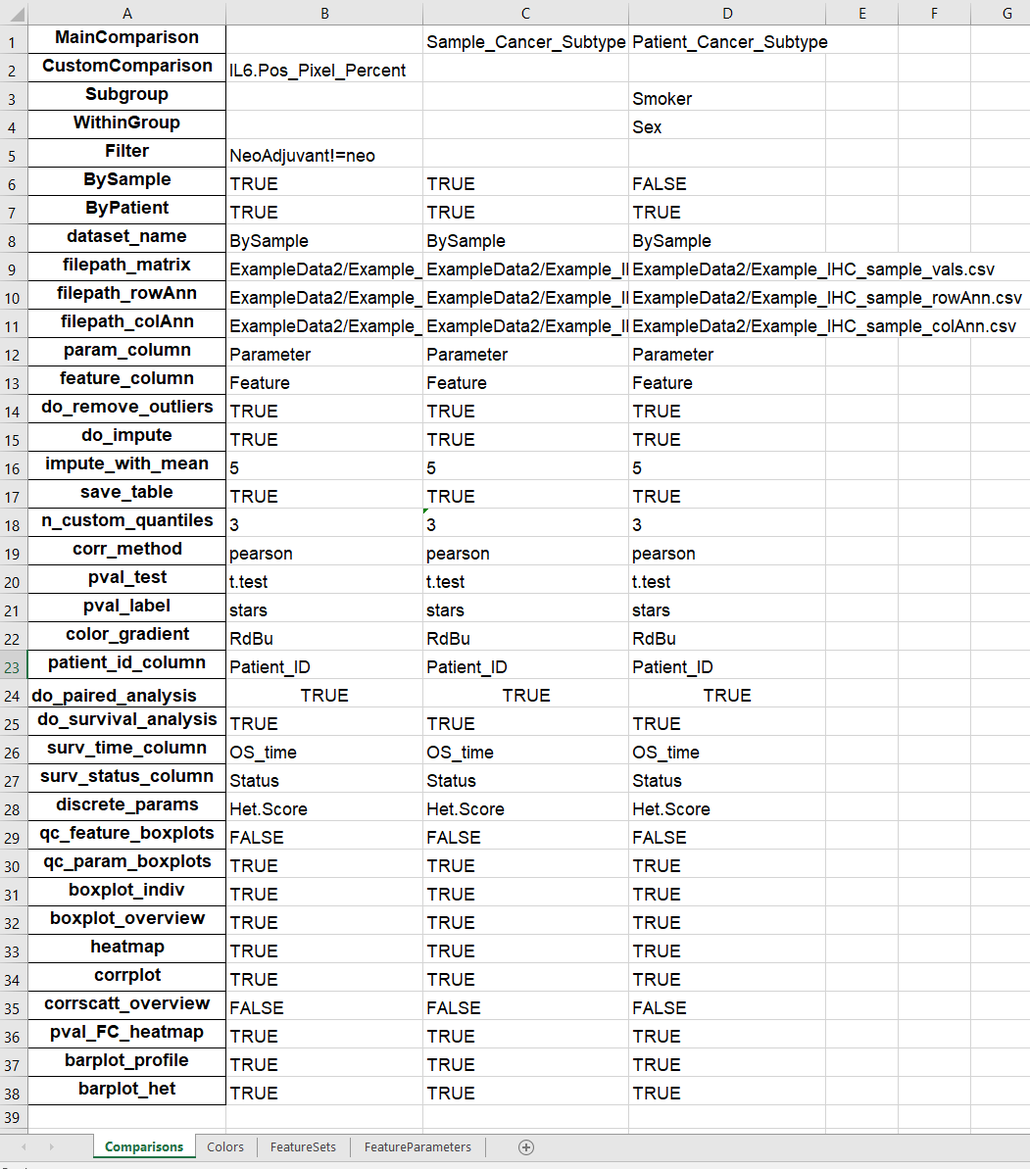
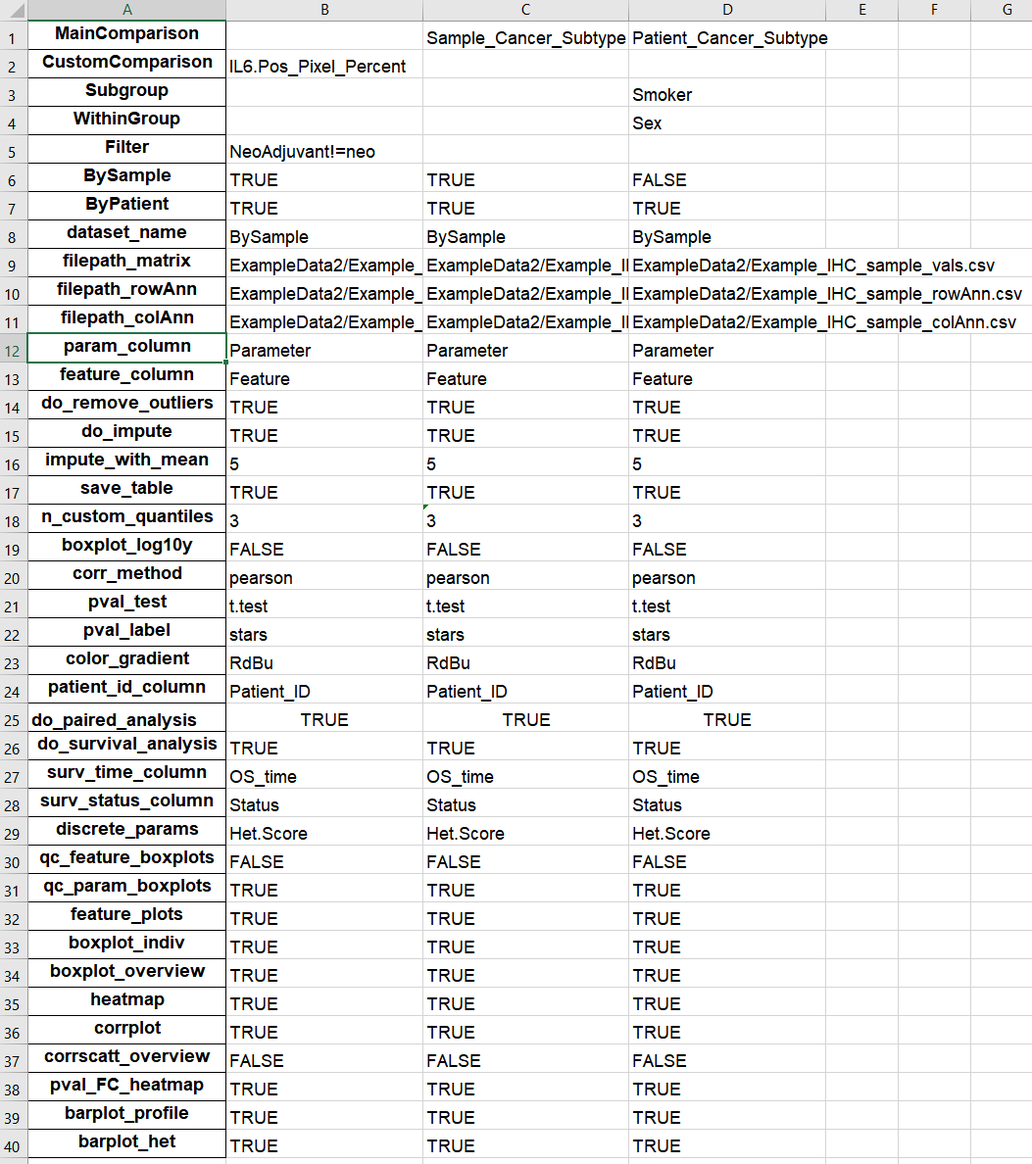
Update GUI

Changed region(s): [[0.0, 0.0, 1.0, 0.9966]]

diff --git a/docs/output-plot-types.html b/docs/output-plot-types.html
@@ -208,7 +208,7 @@ code span.wa { color: #60a0b0; font-weight: bold; font-style: italic; } /* Warni
 <h1><span class="header-section-number">7</span> Output Plot Types<a href="output-plot-types.html#output-plot-types" class="anchor-section" aria-label="Anchor link to header"></a></h1>
 <div id="navigating-output-folder" class="section level2 hasAnchor" number="7.1">
 <h2><span class="header-section-number">7.1</span> Navigating Output Folder<a href="output-plot-types.html#navigating-output-folder" class="anchor-section" aria-label="Anchor link to header"></a></h2>
-<div class="figure" style="text-align: center"><span id="fig:unnamed-chunk-32"></span>
+<div class="figure" style="text-align: center"><span id="fig:unnamed-chunk-33"></span>
 <img src="images/output_overview.png" alt="Hourglass Output Folder Hierarchy." width="100%" />
 <p class="caption">
 Figure 7.1: Hourglass Output Folder Hierarchy.
@@ -223,7 +223,7 @@ Figure 7.1: Hourglass Output Folder Hierarchy.
 </ol>
 <ul>
 <li>Visualizes sample compositon (or expression levels within samples) in patients, indicative of intrapatient heterogeneity.
-<div class="figure" style="text-align: center"><span id="fig:unnamed-chunk-33"></span>
+<div class="figure" style="text-align: center"><span id="fig:unnamed-chunk-34"></span>
 <img src="images/plots/hetplot%20stacked.PNG" alt="Heterogeneity barplot stacked (first image) and filled to 100% (second) created by Hourglass." width="40%" /><img src="images/plots/hetplot%20filled.PNG" alt="Heterogeneity barplot stacked (first image) and filled to 100% (second) created by Hourglass." width="40%" />
 <p class="caption">
 Figure 7.2: Heterogeneity barplot stacked (first image) and filled to 100% (second) created by Hourglass.
@@ -235,7 +235,7 @@ Figure 7.2: Heterogeneity barplot stacked (first image) and filled to 100% (seco
 </ol>
 <ul>
 <li>Determines survival outcome via plotting of Kaplan Meier curve, logrank test, and tables containing patient counts. Only performed on patients (not samples).
-<div class="figure" style="text-align: center"><span id="fig:unnamed-chunk-34"></span>
+<div class="figure" style="text-align: center"><span id="fig:unnamed-chunk-35"></span>
 <img src="images/plots/survival.PNG" alt="Survival curve created by Hourglass." width="50%" />
 <p class="caption">
 Figure 7.3: Survival curve created by Hourglass.
@@ -247,7 +247,7 @@ Figure 7.3: Survival curve created by Hourglass.
 </ol>
 <ul>
 <li>Enables screening of any intra-patient differences that may be reflective of heterogeneity. Points are averaged values across strata per patient. Lines connect different averages within patients.
-<div class="figure" style="text-align: center"><span id="fig:unnamed-chunk-35"></span>
+<div class="figure" style="text-align: center"><span id="fig:unnamed-chunk-36"></span>
 <img src="images/plots/paired.PNG" alt="Patient paired plot created by Hourglass." width="40%" />
 <p class="caption">
 Figure 7.4: Patient paired plot created by Hourglass.
@@ -259,7 +259,7 @@ Figure 7.4: Patient paired plot created by Hourglass.
 </ol>
 <ul>
 <li>Visualizes discrete values of a parameter in each stain, that is, numeric in the input data but should be considered discrete. E.g. A parameter called “Heterogeneity Score” contains values 1-10 but should be “1”, “2”, .. “10”.
-<div class="figure" style="text-align: center"><span id="fig:unnamed-chunk-36"></span>
+<div class="figure" style="text-align: center"><span id="fig:unnamed-chunk-37"></span>
 <img src="images/plots/discrete%20barplot.PNG" alt="Plot showing discrete parameters created by Hourglass." width="50%" />
 <p class="caption">
 Figure 7.5: Plot showing discrete parameters created by Hourglass.
@@ -271,7 +271,7 @@ Figure 7.5: Plot showing discrete parameters created by Hourglass.
 </ol>
 <ul>
 <li>Screen primary data for interesting relationships in one plot and significance associations.
-<div class="figure" style="text-align: center"><span id="fig:unnamed-chunk-37"></span>
+<div class="figure" style="text-align: center"><span id="fig:unnamed-chunk-38"></span>
 <img src="images/plots/boxplot%20overview.PNG" alt="Overview boxplot with statistics created by Hourglass." width="60%" />
 <p class="caption">
 Figure 7.6: Overview boxplot with statistics created by Hourglass.
@@ -283,7 +283,7 @@ Figure 7.6: Overview boxplot with statistics created by Hourglass.
 </ol>
 <ul>
 <li>Visualizes data points for each features/parameter combination and relevant statistics from comparing strata.
-<div class="figure" style="text-align: center"><span id="fig:unnamed-chunk-38"></span>
+<div class="figure" style="text-align: center"><span id="fig:unnamed-chunk-39"></span>
 <img src="images/plots/boxplot%20indiv.PNG" alt="Individual boxplot (left) and example with real data (right) created by Hourglass." width="45%" /><img src="images/plots/example/boxplot%20indiv%20ex.PNG" alt="Individual boxplot (left) and example with real data (right) created by Hourglass." width="45%" />
 <p class="caption">
 Figure 7.7: Individual boxplot (left) and example with real data (right) created by Hourglass.
@@ -295,7 +295,7 @@ Figure 7.7: Individual boxplot (left) and example with real data (right) created
 </ol>
 <ul>
 <li>Compare set of markers across different strata for each patient/sample.
-<div class="figure" style="text-align: center"><span id="fig:unnamed-chunk-39"></span>
+<div class="figure" style="text-align: center"><span id="fig:unnamed-chunk-40"></span>
 <img src="images/plots/profile%20barplot%20stacked.PNG" alt="Profile barplot stacked (first) and filled to 100% (second), created by Hourglass." width="45%" /><img src="images/plots/profile%20barplot%20filled.PNG" alt="Profile barplot stacked (first) and filled to 100% (second), created by Hourglass." width="45%" />
 <p class="caption">
 Figure 7.8: Profile barplot stacked (first) and filled to 100% (second), created by Hourglass.
@@ -307,7 +307,7 @@ Figure 7.8: Profile barplot stacked (first) and filled to 100% (second), created
 </ol>
 <ul>
 <li>Provides overview of patterns in stain data. When there are no NA/missing values (in imputed version for example), values will be clustered using unsupervised hierarchal clustering.
-<div class="figure" style="text-align: center"><span id="fig:unnamed-chunk-40"></span>
+<div class="figure" style="text-align: center"><span id="fig:unnamed-chunk-41"></span>
 <img src="images/plots/heatmap%20expression.PNG" alt="Heatmap showing expression of features, created by Hourglass." width="40%" />
 <p class="caption">
 Figure 7.9: Heatmap showing expression of features, created by Hourglass.
@@ -321,7 +321,7 @@ Figure 7.9: Heatmap showing expression of features, created by Hourglass.
 <li>Screen for patterns of fold-changes between strata in comparisons and overall significance seen in individuals boxplots.<br />
 </li>
 <li>Fold-changes of strata are shown as color gradient and significance between two groups are presented as stars/numbers.
-<div class="figure" style="text-align: center"><span id="fig:unnamed-chunk-41"></span>
+<div class="figure" style="text-align: center"><span id="fig:unnamed-chunk-42"></span>
 <img src="images/plots/heatmap%20pval%20FC.PNG" alt="Plot showing fold-change values (color gradients) and p-values (stars/number), created by Hourglass." width="55%" />
 <p class="caption">
 Figure 7.10: Plot showing fold-change values (color gradients) and p-values (stars/number), created by Hourglass.
@@ -335,7 +335,7 @@ Figure 7.10: Plot showing fold-change values (color gradients) and p-values (sta
 <li>Provides correlations between cell communities and their interactions, e.g. of an insight that can be drawn: correlations between fibroblast markers in one cancer subtype and anti-correlated with immune cells in another. Can only be performed on imputed (no missing values) dataset.</li>
 <li>spearman or pearson</li>
 <li>Only created when there are no NA/missing values - for example in 1) imputed version, and 2) “complete” rows in feature sets.
-<div class="figure" style="text-align: center"><span id="fig:unnamed-chunk-42"></span>
+<div class="figure" style="text-align: center"><span id="fig:unnamed-chunk-43"></span>
 <img src="images/plots/correlation.PNG" alt="Correlation plot created by Hourglass." width="50%" />
 <p class="caption">
 Figure 7.11: Correlation plot created by Hourglass.
@@ -348,7 +348,7 @@ Figure 7.11: Correlation plot created by Hourglass.
 <ul>
 <li>Provides details of correlations, such as regression, scatter plots, correlation coefficients and significant and histograms of values used. Can only be performed on imputed (no missing values) dataset.</li>
 <li>Only created when there are no NA/missing values - for example in 1) imputed version, and 2) “complete” rows in feature setsc
-<div class="figure" style="text-align: center"><span id="fig:unnamed-chunk-43"></span>
+<div class="figure" style="text-align: center"><span id="fig:unnamed-chunk-44"></span>
 <img src="images/plots/correlation%20scatter.PNG" alt="Correlation scatter plot created by Hourglass." width="40%" />
 <p class="caption">
 Figure 7.12: Correlation scatter plot created by Hourglass.
@@ -360,7 +360,7 @@ Figure 7.12: Correlation scatter plot created by Hourglass.
 </ol>
 <ul>
 <li>Provides sample/patient ID and strata used in comparison, useful for custom comparisons (where groups are assigned by Hourglass) and to see which samples/patients were included after filter inclusion/exclusion.
-<div class="figure" style="text-align: center"><span id="fig:unnamed-chunk-44"></span>
+<div class="figure" style="text-align: center"><span id="fig:unnamed-chunk-45"></span>
 <img src="images/plots/id_table.PNG" alt="ID table (csv file) created by Hourglass." width="40%" />
 <p class="caption">
 Figure 7.13: ID table (csv file) created by Hourglass.
@@ -528,7 +528,7 @@ Figure 7.13: ID table (csv file) created by Hourglass.
 <ul>
 <li><strong>QC Feature</strong>: Plot all parameters present for a feature, split by comparison. Note: If your “feature column” parameter is called “Stain”, this folder will be called “QC Stain” in the output folder.</li>
 </ul>
-<div class="figure" style="text-align: center"><span id="fig:unnamed-chunk-45"></span>
+<div class="figure" style="text-align: center"><span id="fig:unnamed-chunk-46"></span>
 <img src="images/plots/QC%20feature.PNG" alt="Example of a 'QC feature' overview boxplot (all parameters measured for CD3)." width="60%" />
 <p class="caption">
 Figure 7.14: Example of a ‘QC feature’ overview boxplot (all parameters measured for CD3).
@@ -537,7 +537,7 @@ Figure 7.14: Example of a ‘QC feature’ overview boxplot (all parameters meas
 <ul>
 <li><strong>QC Parameter</strong>: Plot all features present for a parameter, split by comparison</li>
 </ul>
-<div class="figure" style="text-align: center"><span id="fig:unnamed-chunk-46"></span>
+<div class="figure" style="text-align: center"><span id="fig:unnamed-chunk-47"></span>
 <img src="images/plots/QC%20parameter.PNG" alt="Example of a 'QC parameter' overview boxplot (all features that have a readout for Num.Pos.per.mm.2)." width="60%" />
 <p class="caption">
 Figure 7.15: Example of a ‘QC parameter’ overview boxplot (all features that have a readout for Num.Pos.per.mm.2).

diff --git a/docs/how-to-use-the-desktop-application.html b/docs/how-to-use-the-desktop-application.html
@@ -310,8 +310,8 @@ Figure 5.5: Pick comparisons.
 {insert 2 boxplot images with and without colored dots}</p>
 <p><strong>Within Group</strong></p>
 <p>This will run Hourglass within groups or cohorts of sample/patients.
-Append rowAnn column names with “;”.
-e.g. Sex;Smoker</p>
+Append rowAnn column names with “,”.
+e.g. Sex,Smoker</p>
 <p><strong>Filter</strong></p>
 <p>Specify exclusion criteria with this format: rowAnn_columnname != variable to exclude or rowAnn_columnname == variable to keep.
 e.g. Smoker==“Yes” - this keeps all smokers and excludes all other samples/patients from analysis. Ensure that “Smoker” is a column in rowAnn and “Yes” is one of its column values. Choose multiple filters by appending filters with “;”, e.g. Smoker==“Yes”;NeoAdjuvant!=neo</p>
@@ -463,7 +463,7 @@ Figure 5.8: Define feature sets.
 <p>This tab includes customization for statistics, plot types, etc.</p>
 </blockquote>
 <div class="figure" style="text-align: center"><span id="fig:unnamed-chunk-22"></span>
-<img src="images/app/GUI_5_adv-options1.PNG" alt="Define feature sets." width="66%" /><img src="images/app/GUI_5_adv-options2.PNG" alt="Define feature sets." width="66%" />
+<img src="images/app/GUI_5_adv-options1.png" alt="Define feature sets." width="66%" /><img src="images/app/GUI_5_adv-options2.png" alt="Define feature sets." width="66%" />
 <p class="caption">
 Figure 5.9: Define feature sets.
 </p>
@@ -474,9 +474,16 @@ Figure 5.9: Define feature sets.
 <li><p><strong>Test method</strong>: Which two-sample test should be used? Student’s t-test for parametric data, wilcoxon usually for non-parametric.</p></li>
 <li><p><strong>p-values label</strong>: How p (significance) values are to be represented in boxplots, correlation plots, p-value/fold-change heatmap. Stars or exact numeric values.</p></li>
 <li><p><strong>Fold-change method</strong>: Fold change computation method to use, either “divide” (for non-transformed values) or “subtract” (for log2-transformed values).</p></li>
-<li><p><strong>Color gradient</strong>: Color palette for scaled plot types: heatmaps, correlation plots. See color palettes (visual) by pressing the button “See color gradients”.</p></li>
+<li><p><strong>Color gradient</strong>: Color palette for scaled plot types: heatmaps, correlation plots. See color palettes (visual) by pressing the button “See color gradients”.</p>
+<div class="figure" style="text-align: center"><span id="fig:unnamed-chunk-23"></span>
+<img src="images/app/GUI_5_adv-options3_colors.png" alt="Color gradients supported by Hourglass - image from RColorBrewer." width="40%" />
+<p class="caption">
+Figure 5.10: Color gradients supported by Hourglass - image from RColorBrewer.
+</p>
+</div></li>
 <li><p><strong>Number of custom levels</strong>: Number of intermediate groups resulting from Hourglass separating a continuous variable into low, int, high. For example, if 2 is selected, there will only be low and high groups, whereas if 4 is selected, the groups will be low, int1, int2, high.</p></li>
 <li><p><strong>Save ID data to file</strong>: Would you like sample/patient IDs and corresponding comparison groups to be saved to a .csv table? If TRUE is selected, then yes. This may be useful to 1) identify how Hourglass stratified custom comparisons, i.e. which patient IDs were considers low, int, high in the analysis and 2) see which samples/patients were in analysis after filtering steps.</p></li>
+<li><p><strong>Log10 y axis for box/paired plots</strong>: Should the data be transformed (y axis) for box plots and patient-paired slopegraphs? Opt for this option if the data columns have large ranges.</p></li>
 </ul>
 <p>Survival analysis options:</p>
 <ul>
@@ -502,10 +509,10 @@ Figure 5.9: Define feature sets.
 <ul>
 <li>A button for each unique value in defined comparisons will automatically be displayed. For example, if “Cancer Type” was chosen as a main comparison, corresponding buttons for lung, breast, pancreatic, and other values in the “Cancer Type” column will be displayed.</li>
 </ul>
-<div class="figure" style="text-align: center"><span id="fig:unnamed-chunk-23"></span>
+<div class="figure" style="text-align: center"><span id="fig:unnamed-chunk-24"></span>
 <img src="images/app/GUI_6_customize-colors1.PNG" alt="Customize colors." width="66%" /><img src="images/app/GUI_6_customize-colors2.PNG" alt="Customize colors." width="66%" />
 <p class="caption">
-Figure 5.10: Customize colors.
+Figure 5.11: Customize colors.
 </p>
 </div>
 <ol style="list-style-type: decimal">
@@ -528,15 +535,15 @@ Note: the information will help populate the table/sheet in the output Excel fil
 <blockquote>
 <p>This tab is the final tab that defines which plot types should be created in output folder</p>
 </blockquote>
-<div class="figure" style="text-align: center"><span id="fig:unnamed-chunk-24"></span>
-<img src="images/app/GUI_7_run-hourglass.PNG" alt="Run Hourglass." width="66%" />
+<div class="figure" style="text-align: center"><span id="fig:unnamed-chunk-25"></span>
+<img src="images/app/GUI_7_run-hourglass1.PNG" alt="Run Hourglass." width="66%" /><img src="images/app/GUI_7_run-hourglass2.PNG" alt="Run Hourglass." width="66%" />
 <p class="caption">
-Figure 5.11: Run Hourglass.
+Figure 5.12: Run Hourglass.
 </p>
 </div>
 <ul>
 <li><p>Check boxes for quality control boxplots, for the feature and parameter colAnn columns (optional). See <a href="output-plot-types.html#quality-control-qc-plots">Quality Control (QC) Plots</a>. Note this uses information from Feature Sets Tab 1.</p></li>
-<li><p>Check boxes for plots that will be created for each feature set.</p></li>
+<li><p>Check boxes for plots that will be created for each feature set. Ensure “Feature Plots” is checked.</p></li>
 <li><p><strong>Either</strong> press:</p>
 <ul>
 <li>“Create output spreadsheet” button and navigate through the folder directory and save the Excel file locally. Modify if needed before pressing Run.</li>
@@ -596,10 +603,10 @@ Figure 5.11: Run Hourglass.
 </blockquote>
 <p><strong>1. Comparisons</strong></p>
 <p>This worksheet contains specifications for each run. The first column must be the exact names of the user options and the proceeding columns are comparisons, where each column is a comparison.</p>
-<div class="figure" style="text-align: center"><span id="fig:unnamed-chunk-25"></span>
+<div class="figure" style="text-align: center"><span id="fig:unnamed-chunk-26"></span>
 <img src="images/excel/output-excel_comparisons.png" alt="Example of Comparisons worksheet in output Excel file." width="80%" />
 <p class="caption">
-Figure 5.12: Example of Comparisons worksheet in output Excel file.
+Figure 5.13: Example of Comparisons worksheet in output Excel file.
 </p>
 </div>
 <p>The first rows (“MainComparison” to “ByPatient”) reflect the comparison table in <a href="how-to-use-the-desktop-application.html#define-comparisons">Define Comparisons</a>, while the rest are options selected from other tabs (e.g. <a href="how-to-use-the-desktop-application.html#advanced-options">Advanced Options</a>, <a href="how-to-use-the-desktop-application.html#run-hourglass">Run Hourglass</a>)</p>
@@ -608,26 +615,26 @@ Figure 5.12: Example of Comparisons worksheet in output Excel file.
 <p>If you’d like to <strong>exclude an option</strong>(e.g. “Sex-X” due to low patient number), set to white “#ffffffff” or do not include and it will be removed from all comparisons with “Sex”.</p>
 <p>This may be useful if you have high,int,low for a CustomComparison (see [Pick Comparisons] for definition) - if the intermediate group is to be excluded, delete the “Custom-int” row.</p>
 <p>Colors are the <strong>same for all unique strata</strong> for consistency. For example, “Patient_Cancer_Subtype-A”, “Sample_Cancer_Subtype-A”, “Sex-A”, “Smoker-A”, “Random-A” all have the strata “A” and therefore will be the same color (ie first color defined, duplicates are ignored).</p>
-<div class="figure" style="text-align: center"><span id="fig:unnamed-chunk-26"></span>
+<div class="figure" style="text-align: center"><span id="fig:unnamed-chunk-27"></span>
 <img src="images/excel/output-excel_colors.png" alt="Example of Colors worksheet in output Excel file." width="40%" />
 <p class="caption">
-Figure 5.13: Example of Colors worksheet in output Excel file.
+Figure 5.14: Example of Colors worksheet in output Excel file.
 </p>
 </div>
 <p><strong>3. Feature Sets</strong></p>
 <p>This worksheet contains the table in <a href="how-to-use-the-desktop-application.html#define-feature-sets">Define Feature Sets</a> “Tab 3: Define sets”.</p>
-<div class="figure" style="text-align: center"><span id="fig:unnamed-chunk-27"></span>
+<div class="figure" style="text-align: center"><span id="fig:unnamed-chunk-28"></span>
 <img src="images/excel/output-excel_feature-sets.png" alt="Example of Feature Sets worksheet in output Excel file." width="68%" />
 <p class="caption">
-Figure 5.14: Example of Feature Sets worksheet in output Excel file.
+Figure 5.15: Example of Feature Sets worksheet in output Excel file.
 </p>
 </div>
 <p><strong>4. Feature Parameters</strong></p>
 <p>This worksheet contains the table in <a href="how-to-use-the-desktop-application.html#define-feature-sets">Define Feature Sets</a> “Tab 2: Define parameters”.</p>
-<div class="figure" style="text-align: center"><span id="fig:unnamed-chunk-28"></span>
+<div class="figure" style="text-align: center"><span id="fig:unnamed-chunk-29"></span>
 <img src="images/excel/output-excel_feature-parameters.png" alt="Example of Feature Parameters worksheet in output Excel file." width="60%" />
 <p class="caption">
-Figure 5.15: Example of Feature Parameters worksheet in output Excel file.
+Figure 5.16: Example of Feature Parameters worksheet in output Excel file.
 </p>
 </div>
 

diff --git a/docs/index.html b/docs/index.html
@@ -227,7 +227,7 @@ Figure 1.2: The Hourglass concept: input data, computational processing, output 
 </div>
 <p><strong>Acknowledgements</strong></p>
 <p>We are ready to share Hourglass with the world. It’s about <em>time</em>.</p>
-<p>First of all, I would like to thank Dr. Barbara Grünwald, whose role cannot be overstated. She is the phenomenal force that helped conceptualize this toolbox and drove this project forward. It started off as a script, with 300 lines of code in a single for loop, and progressively grew bigger as we added more stains and figured out new ways to interrogate the data.</p>
+<p>First of all, I would like to thank Dr. Barbara Grünwald, whose role cannot be overstated. She is the phenomenal force who helped conceptualize this toolbox and drove this project forward. It started off as a script, with 300 lines of code in a single for loop, and progressively grew bigger as we added more stains and figured out new ways to interrogate the data.</p>
 <p>Next, I would like to thank Henry Waterhouse, who built the graphical user interface with me, from planning to launch. Bowen Zhang and Parinaz Nasr Esfahani supported software development and testing for the MacOS version. Foram Vyas, Emily Poulton, and Nathan Chan are the image analysis experts who quantified the IHC data and consistently offered creative feedback. I would like to thank my supervisor, Dr. Rama Khokha, Dr. Paul Waterhouse, Dr. Niklas Krebs, and the rest of the Khokha Lab (<a href="https://khokhalab.ca/">https://khokhalab.ca/</a>) for sharing their excitement about Hourglass.</p>
 <p>I also would like to thank the developers of R, python, and Kivy for facilitating the creation of Hourglass, the StackOverflow community for having answers to all our questions, Github for providing a platform in which this program is easily accessible, and RStudio for creating R markdown and bookdown to facilitate the making of the R package and this book.</p>
 <p>- Kazeera</p>

diff --git a/docs/input-data.html b/docs/input-data.html
@@ -211,8 +211,9 @@ code span.wa { color: #60a0b0; font-weight: bold; font-style: italic; } /* Warni
 <p>Hourglass currently supports input data as <em>csv</em> (comma separated values) and <em>txt</em> (tab-delimited text) files</p>
 <p>Requirements</p>
 <ul>
-<li>All files should have row names.</li>
+<li>All files should have row and column names.</li>
 <li>Missing values should be denoted NA or left blank (not nan, N/A, “NA”)</li>
+<li>Avoid special characters, such as /,\,+,-,^ in column names. Use descriptive names with underscores (<em>i.e.</em> _) or periods (.).</li>
 </ul>
 </div>
 <div id="the-3-files" class="section level2 hasAnchor" number="4.2">
@@ -225,8 +226,8 @@ code span.wa { color: #60a0b0; font-weight: bold; font-style: italic; } /* Warni
 Figure 4.1: Snippet of the three files/tables required for Hourglass: 1) values matrix, 2) metadata/annotations for columns of values matrix, and 3) metadata/annotations for rows of values matrix.
 </p>
 </div>
-<p><strong>1. Numeric matrix (or ‘numMat’)</strong></p>
-<p>= Numeric values from quantification, where rows (samples/patients) x columns (genes/features/parameters).</p>
+<p><strong>1. Numeric matrix (referred to as ‘numMat’/‘vals’)</strong></p>
+<p>= Numeric values from quantification, where rows (samples/patients) x columns (genes/features/parameters). For best output results, columns should contain feature first name with a period to delimit the rest of the column name. (<em>e.g.</em> try “Gene1.Parameter”, not “Gene1_Parameter”); for heatmaps/correlation plots, the part of the column name after the period will be removed by Hourglass.</p>
 <p>For example, for RNA sequencing data: data matrix = expression matrix, columns = genes, rows = samples.</p>
 <p><strong>2. Column Annotations (or ‘colAnn’)</strong></p>
 <blockquote>

diff --git a/docs/how-to-use-the-r-package.html b/docs/how-to-use-the-r-package.html
@@ -209,7 +209,7 @@ code span.wa { color: #60a0b0; font-weight: bold; font-style: italic; } /* Warni
 <p>We constructed new functions and compiled relevant individual data filtering functions (such as subset retrieval, imputation and outlier removal) and plotting functions (such as boxplot, heatmap, correlation matrix, survival plot visualizations).</p>
 <div id="outline-of-code" class="section level2 hasAnchor" number="6.1">
 <h2><span class="header-section-number">6.1</span> Outline of Code<a href="how-to-use-the-r-package.html#outline-of-code" class="anchor-section" aria-label="Anchor link to header"></a></h2>
-<div class="figure" style="text-align: center"><span id="fig:unnamed-chunk-29"></span>
+<div class="figure" style="text-align: center"><span id="fig:unnamed-chunk-30"></span>
 <img src="images/R_functions.png" alt="Workflow: Order of functions in Hourglass R package." width="90%" />
 <p class="caption">
 Figure 6.1: Workflow: Order of functions in Hourglass R package.

diff --git a/docs/installation.html b/docs/installation.html
@@ -265,8 +265,8 @@ Click <a href="https://github.com/kazeera/Hourglass">here</a> for source code on
 <h2><span class="header-section-number">3.4</span> Uninstall<a href="installation.html#uninstall" class="anchor-section" aria-label="Anchor link to header"></a></h2>
 <p>Follow instruction if you would like to uninstall Hourglass:</p>
 <p><strong>Uninstall application on Windows:</strong><br />
-Option 1. Go to Add or Remove programs<br />
-Option 2. Open Folder location for Hourglass. Press on file unins000.exe to uninstall.</p>
+Option 1. Go to Add or Remove programs. Search for Hourglass. Press uninstall.<br />
+Option 2. Open folder where Hourglass was installed (usually in Program Files). Double-click on file called “unins000.exe” to uninstall.</p>
 <p><strong>Uninstall application on MacOS:</strong><br />
 Delete Hourglass application by clicking on icon and “Move to Trash”.</p>
 <p><strong>Uninstall R package:</strong><br />
